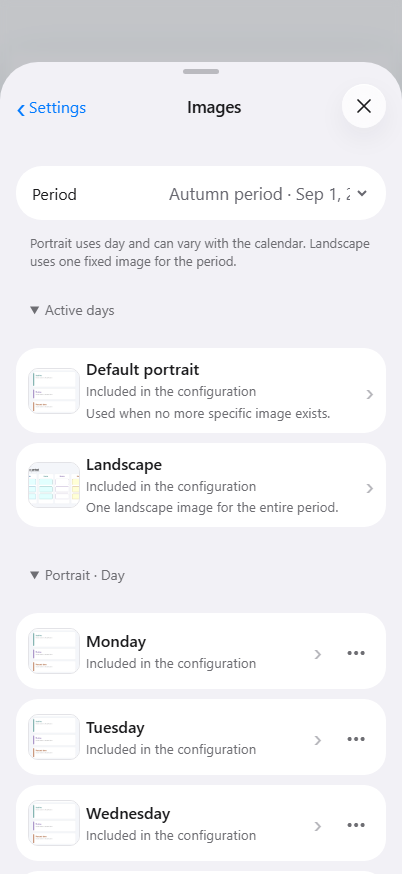
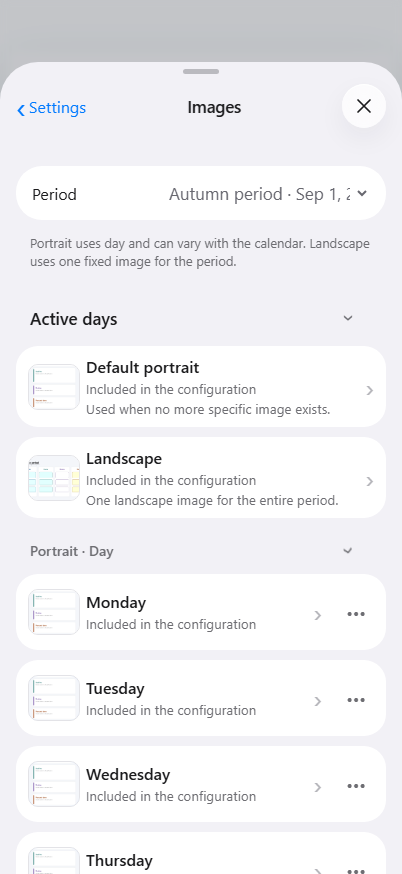
Fix collapsible image settings groups

diff --git a/index.html b/index.html
@@ -10,9 +10,9 @@
   <link rel="icon" href="./favicon.svg" type="image/svg+xml">
   <link rel="apple-touch-icon" href="./icons/apple-touch-icon.png">
   <link rel="manifest" href="./manifest.webmanifest">
-  <link rel="stylesheet" href="./styles.css?v=20260904-v5-4">
-  <link rel="stylesheet" href="./settings-responsive.css?v=20260904-v5-4">
-  <link rel="stylesheet" href="./apple-liquid-glass.css?v=20260904-v5-4">
+  <link rel="stylesheet" href="./styles.css?v=20260904-v5-5">
+  <link rel="stylesheet" href="./settings-responsive.css?v=20260904-v5-5">
+  <link rel="stylesheet" href="./apple-liquid-glass.css?v=20260904-v5-5">
   <style>
     [hidden] { display: none !important; }
 
@@ -41,20 +41,20 @@
   <script type="importmap">
     {
       "imports": {
-        "./schedule-core.js": "./schedule-core.js?v=20260904-v5-4",
-        "./date-core.js": "./date-core.js?v=20260904-v5-4",
-        "./range-core.js": "./range-core.js?v=20260904-v5-4",
-        "./view-core.js": "./view-core.js?v=20260904-v5-4",
-        "./calendar-core.js": "./calendar-core.js?v=20260904-v5-4",
-        "./content-core.js": "./content-core.js?v=20260904-v5-4",
-        "./content-renderer.js": "./content-renderer.js?v=20260904-v5-4",
-        "./runtime-renderer.js": "./runtime-renderer.js?v=20260904-v5-4",
-        "./local-store.js": "./local-store.js?v=20260904-v5-4",
-        "./asset-resolver.js": "./asset-resolver.js?v=20260904-v5-4",
-        "./device-ui.js": "./device-ui.js?v=20260904-v5-4",
-        "./config-schema.js": "./config-schema.js?v=20260904-v5-4",
-        "./settings-ui.js": "./settings-ui.js?v=20260904-v5-4",
-        "./app-updates.js": "./app-updates.js?v=20260904-v5-4"
+        "./schedule-core.js": "./schedule-core.js?v=20260904-v5-5",
+        "./date-core.js": "./date-core.js?v=20260904-v5-5",
+        "./range-core.js": "./range-core.js?v=20260904-v5-5",
+        "./view-core.js": "./view-core.js?v=20260904-v5-5",
+        "./calendar-core.js": "./calendar-core.js?v=20260904-v5-5",
+        "./content-core.js": "./content-core.js?v=20260904-v5-5",
+        "./content-renderer.js": "./content-renderer.js?v=20260904-v5-5",
+        "./runtime-renderer.js": "./runtime-renderer.js?v=20260904-v5-5",
+        "./local-store.js": "./local-store.js?v=20260904-v5-5",
+        "./asset-resolver.js": "./asset-resolver.js?v=20260904-v5-5",
+        "./device-ui.js": "./device-ui.js?v=20260904-v5-5",
+        "./config-schema.js": "./config-schema.js?v=20260904-v5-5",
+        "./settings-ui.js": "./settings-ui.js?v=20260904-v5-5",
+        "./app-updates.js": "./app-updates.js?v=20260904-v5-5"
       }
     }
   </script>
@@ -98,7 +98,7 @@
             <button type="button" data-settings-tab="advanced" class="settings-menu-row" aria-label="Advanced"><span>Advanced</span><span class="settings-chevron" aria-hidden="true">›</span></button>
           </nav>
           <p id="settings-source" class="settings-group-note">Demo configuration</p>
-          <p class="settings-group-note">Version <span id="app-version">20260904-v5-4</span></p>
+          <p class="settings-group-note">Version <span id="app-version">20260904-v5-5</span></p>
         </section>
         <section id="settings-periods-panel" data-settings-panel="periods" class="settings-panel" hidden>
           <div id="period-settings"></div>
@@ -178,7 +178,7 @@
     })();
 
   </script>
-  <script type="module" src="./app.js?v=20260904-v5-4"></script>
-  <script type="module" src="./apple-glass.js?v=20260904-v5-4"></script>
+  <script type="module" src="./app.js?v=20260904-v5-5"></script>
+  <script type="module" src="./apple-glass.js?v=20260904-v5-5"></script>
 </body>
 </html>

diff --git a/settings-ui.js b/settings-ui.js
@@ -318,6 +318,10 @@ export function initSettingsUI({ deviceMode, getState, applyLocalConfig, resetTo
 
   function renderImages() {
     if (!workingConfig) return;
+    const expandedGroups = new Set(
+      [...imageHost.querySelectorAll("details[data-image-group][open]")]
+        .map(node => node.dataset.imageGroup)
+    );
     clearPreviews(); imageOptions.replaceChildren(); imageHost.replaceChildren();
     const periods = imagePeriods(workingConfig);
     if (!periods.some(item => item.key === selectedPeriodId)) selectedPeriodId = periods[0]?.key ?? null;
@@ -327,11 +331,35 @@ export function initSettingsUI({ deviceMode, getState, applyLocalConfig, resetTo
     imageOptions.append(field("Period", picker));
     imageDescription.textContent = `Portrait uses ${UNIT_LABELS[workingConfig.presentation.vertical.unit].toLowerCase()} and can vary with the calendar. Landscape uses one fixed image for the period.`;
     const targets = imageTargets(workingConfig, selectedPeriodId);
-    for (const groupName of [...new Set(targets.map(item => item.group))]) {
-      const details = el("details", { class: "image-settings-group", open: ["Active days", `Portrait · ${UNIT_LABELS[workingConfig.presentation.vertical.unit]}`, "Inactive days"].includes(groupName) }, el("summary", { text: groupName }));
-      for (const item of targets.filter(target => target.group === groupName)) details.append(renderImageRow(item));
-      imageHost.append(details);
+    const grouped = new Map();
+    for (const item of targets) {
+      if (!grouped.has(item.group)) grouped.set(item.group, []);
+      grouped.get(item.group).push(item);
     }
+    const detailsFor = (name, className) => {
+      const details = el("details", { class: className, "data-image-group": name }, el("summary", { text: name }));
+      details.open = expandedGroups.has(name);
+      return details;
+    };
+    const appendRows = (host, groupName) => {
+      for (const item of grouped.get(groupName) ?? []) host.append(renderImageRow(item));
+    };
+    const appendSubgroup = (host, groupName) => {
+      if (!grouped.has(groupName)) return;
+      const details = detailsFor(groupName, "image-settings-group");
+      appendRows(details, groupName);
+      host.append(details);
+    };
+
+    const active = detailsFor("Active days", "image-settings-section");
+    appendRows(active, "Active days");
+    appendSubgroup(active, `Portrait · ${UNIT_LABELS[workingConfig.presentation.vertical.unit]}`);
+    imageHost.append(active);
+
+    const inactive = detailsFor("Inactive days", "image-settings-section");
+    appendRows(inactive, "Inactive days");
+    for (const groupName of ["Recurring inactive days", "Exceptions", "Inactive periods"]) appendSubgroup(inactive, groupName);
+    imageHost.append(inactive);
   }
 
   function renderLegacyWarning() {

diff --git a/styles.css b/styles.css
@@ -688,8 +688,25 @@ button:disabled { opacity: .45; cursor: default; }
 }
 .backup-action svg { width: 28px; height: 28px; fill: none; stroke: currentColor; stroke-width: 1.8; stroke-linecap: round; stroke-linejoin: round; }
 .backup-action span { font-size: 14px; }
-.image-settings-group { display: grid; gap: 0; min-width: 0; max-width: 100%; border-radius: 22px; overflow: visible; }
-.image-settings-group > summary { min-width: 0; max-width: 100%; min-height: 48px; padding: 10px 16px; cursor: pointer; color: var(--muted); font-size: 14px; list-style-position: inside; }
+.image-settings-section,
+.image-settings-group { min-width: 0; max-width: 100%; border-radius: 22px; overflow: visible; }
+.image-settings-section > summary,
+.image-settings-group > summary { display: flex; align-items: center; min-width: 0; max-width: 100%; cursor: pointer; color: var(--muted); list-style: none; }
+.image-settings-section > summary::-webkit-details-marker,
+.image-settings-group > summary::-webkit-details-marker { display: none; }
+.image-settings-section > summary::after,
+.image-settings-group > summary::after { content: "›"; margin-left: auto; color: var(--muted); font-size: 24px; font-weight: 400; line-height: 1; transform: rotate(0deg); transition: transform 140ms ease; }
+.image-settings-section[open] > summary::after,
+.image-settings-group[open] > summary::after { transform: rotate(90deg); }
+.image-settings-section > summary { min-height: 56px; padding: 12px 16px; font-size: 17px; font-weight: 600; color: var(--ink); }
+.image-settings-group > summary { min-height: 48px; padding: 10px 16px; font-size: 14px; font-weight: 500; }
+.image-settings-section[open] { padding-bottom: 10px; }
+.image-settings-section[open] + .image-settings-section { margin-top: 8px; }
+.image-settings-section > .image-settings-group { margin-top: 8px; }
+@media (prefers-reduced-motion: reduce) {
+  .image-settings-section > summary::after,
+  .image-settings-group > summary::after { transition: none; }
+}
 .image-setting { position: relative; display: grid; grid-template-columns: minmax(0, 1fr) auto; min-width: 0; max-width: 100%; padding: 0; gap: 0; }
 .image-setting-main { width: 100%; min-width: 0; max-width: 100%; min-height: 76px; display: grid; grid-template-columns: 58px minmax(0, 1fr) auto; align-items: center; gap: 12px; padding: 10px 12px; border: 0; background: transparent; color: inherit; text-align: left; font: inherit; cursor: pointer; }
 .image-setting-main .settings-chevron { margin-left: 0; }

diff --git a/apple-liquid-glass.css b/apple-liquid-glass.css
@@ -3,7 +3,8 @@
 .image-option { display: grid; grid-template-columns: auto minmax(0, 1fr); gap: 16px; align-items: center; min-height: 56px; }
 .image-option + .image-option { border-top: 1px solid var(--line); }
 .image-option select { width: 100%; min-width: 0; max-width: 100%; text-overflow: ellipsis; }
-.image-settings-group { display: grid; gap: 10px; min-width: 0; }
+.image-settings-section,
+.image-settings-group { min-width: 0; }
 .image-settings-group + .image-settings-group { margin-top: 18px; }
 .image-settings-group h3 { margin: 0 14px 2px; color: var(--muted); font-size: 14px; font-weight: 500; }
 .image-settings-group .image-setting-copy strong { white-space: normal; overflow-wrap: anywhere; }
@@ -128,6 +129,7 @@ html[data-ui-theme="apple"] .settings-add-row:active,
 html[data-ui-theme="apple"] .image-setting-main:active { background: var(--accent-soft); }
 html[data-ui-theme="apple"] .image-settings-group { background: transparent; }
 html[data-ui-theme="apple"] .image-settings-group > summary { margin: 0 14px; padding-left: 0; }
+html[data-ui-theme="apple"] .image-settings-section > summary { margin: 0 14px; padding-left: 0; }
 html[data-ui-theme="apple"] .image-setting + .image-setting { margin-top: 10px; }
 html[data-ui-theme="apple"] .image-more > button { background: var(--paper); }
 html[data-ui-theme="apple"] .settings-fab { --glass-paper: #fff; --glass-ink: #1c1c1e; isolation: isolate; }

diff --git a/content-core.js b/content-core.js
@@ -9,6 +9,8 @@ function orientationImage(images, orientation) {
 }
 
 export function resolveDefaultInactiveContent(config, evaluation = {}, orientation = "vertical") {
+  // Inactive content always comes from the period selected for the requested
+  // date. It must never fall through to a neighbouring period's active image.
   const period = evaluation.displayPeriod ?? displayPeriodForDate(config, evaluation.date);
   const image = period?.images?.inactive?.[orientation];
   if (!image) throw new Error(`The ${orientation} inactive image is missing.`);

diff --git a/service-worker.js b/service-worker.js
@@ -2,7 +2,7 @@ const CACHE_PREFIX = "schedule-viewer-";
 const LEGACY_CACHE_PREFIXES = ["schedule-viewer-offline-v2"];
 const MIGRATION_CACHE_PREFIX = "schedule-viewer-offline-v3";
 const LEGACY_IMMEDIATE_UPDATE_CACHES = ["schedule-viewer-offline-20260903-v4-6"];
-const RELEASE_ID = "20260904-v5-4";
+const RELEASE_ID = "20260904-v5-5";
 // A separate cache per release prevents unchanged lazy URLs from retaining old code.
 const CACHE_NAME = `${CACHE_PREFIX}offline-${RELEASE_ID}`;
 const SCOPE = self.registration.scope;
